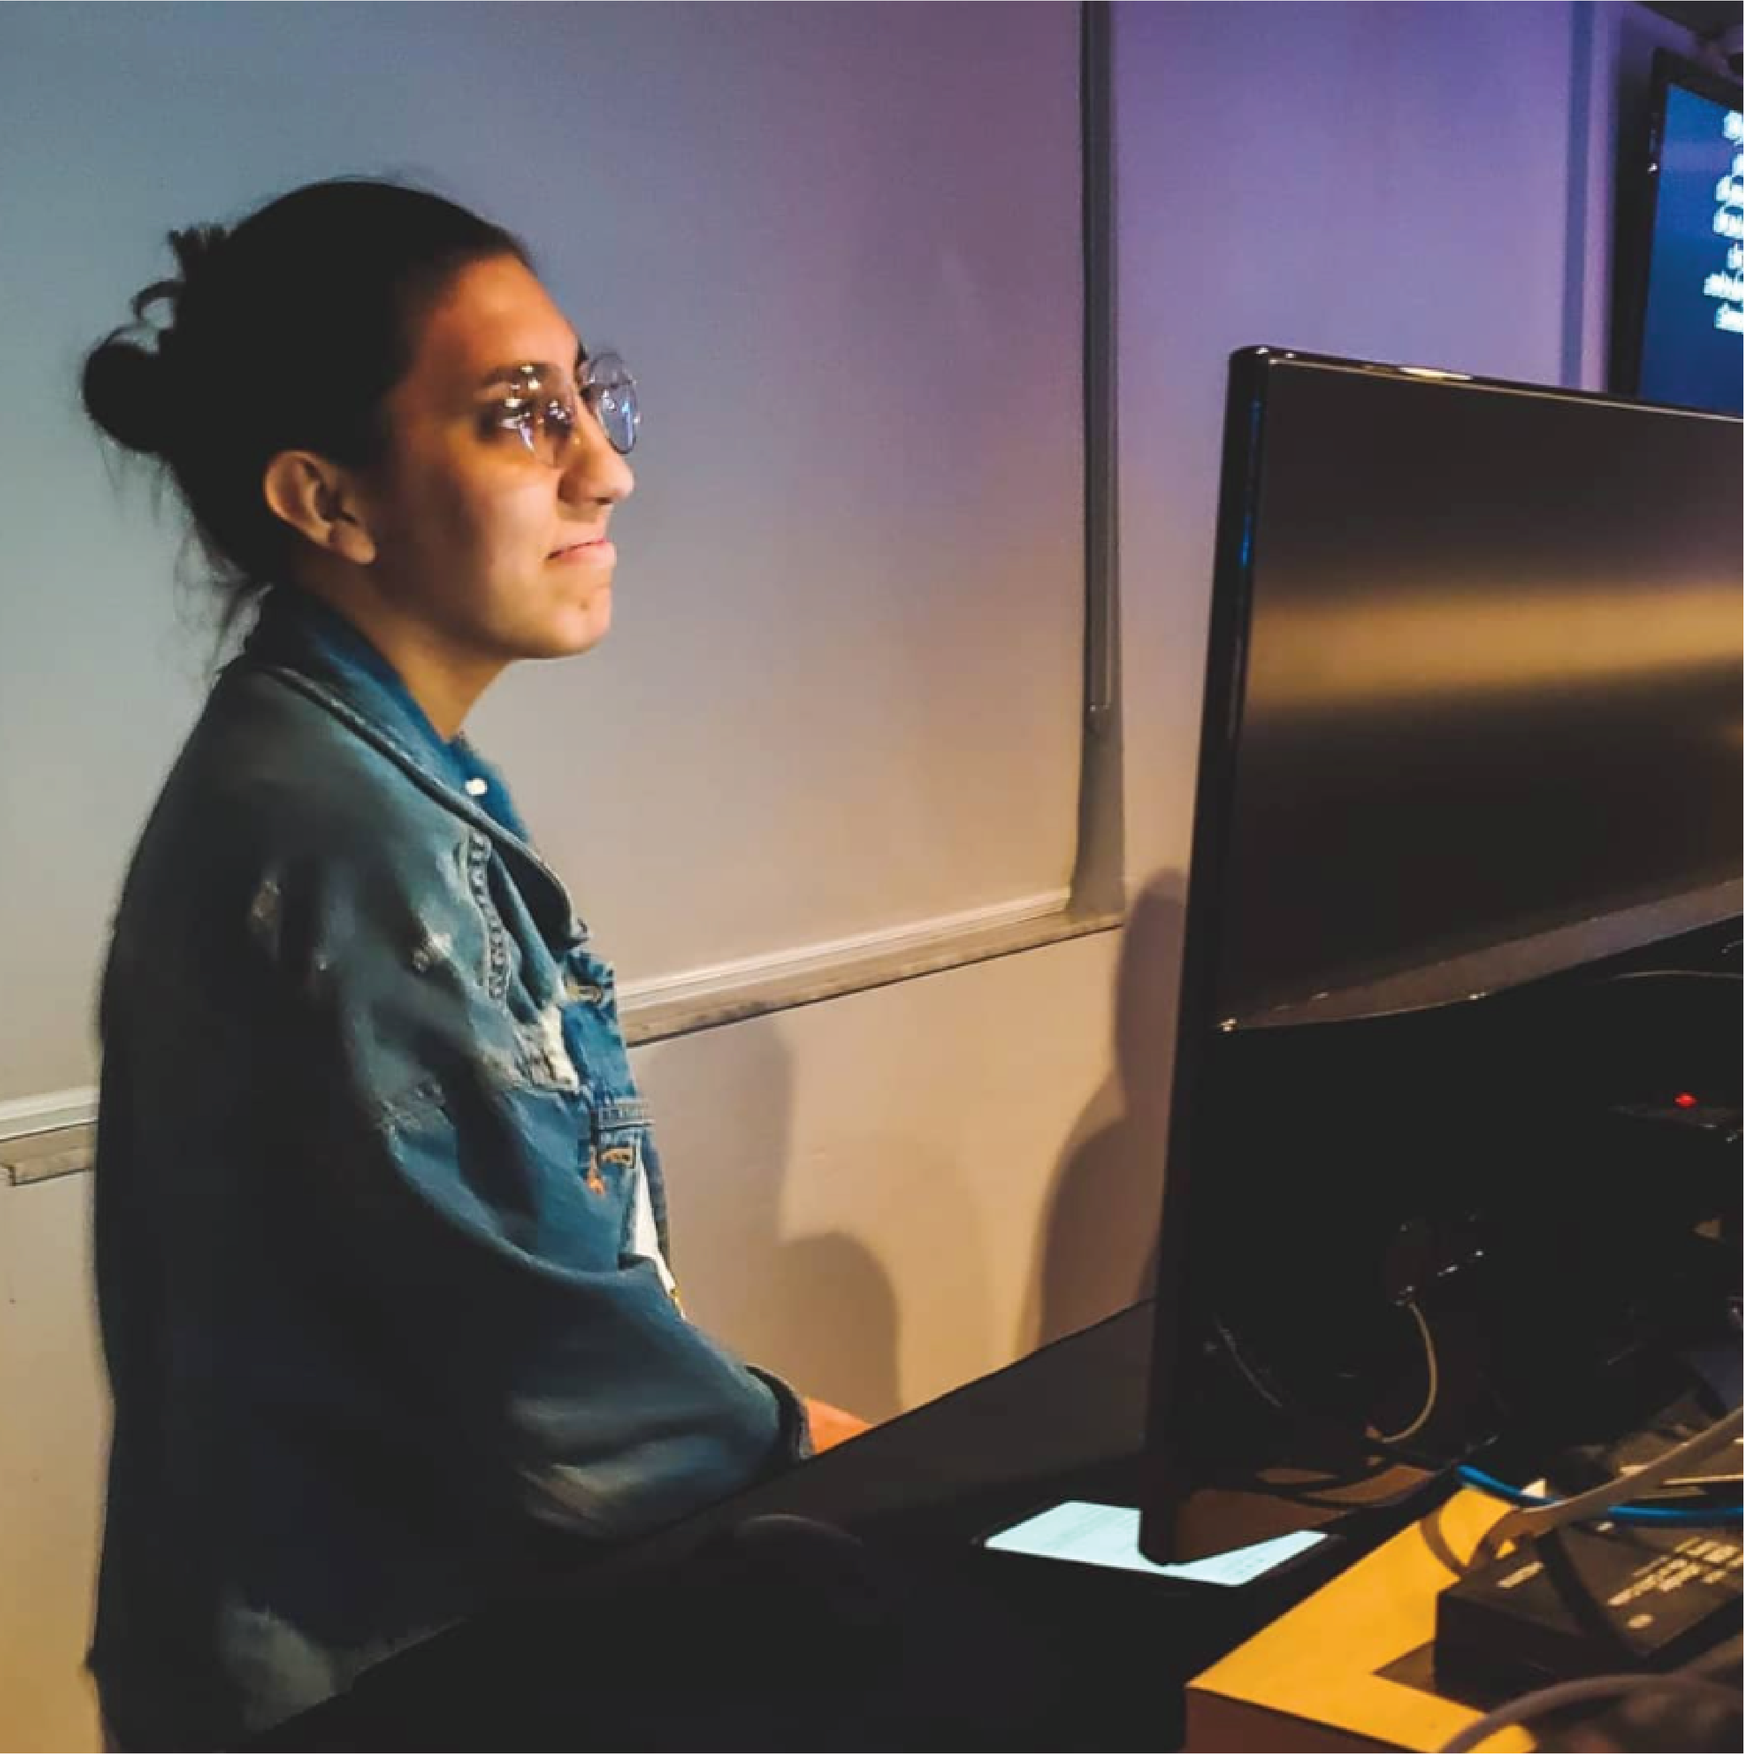
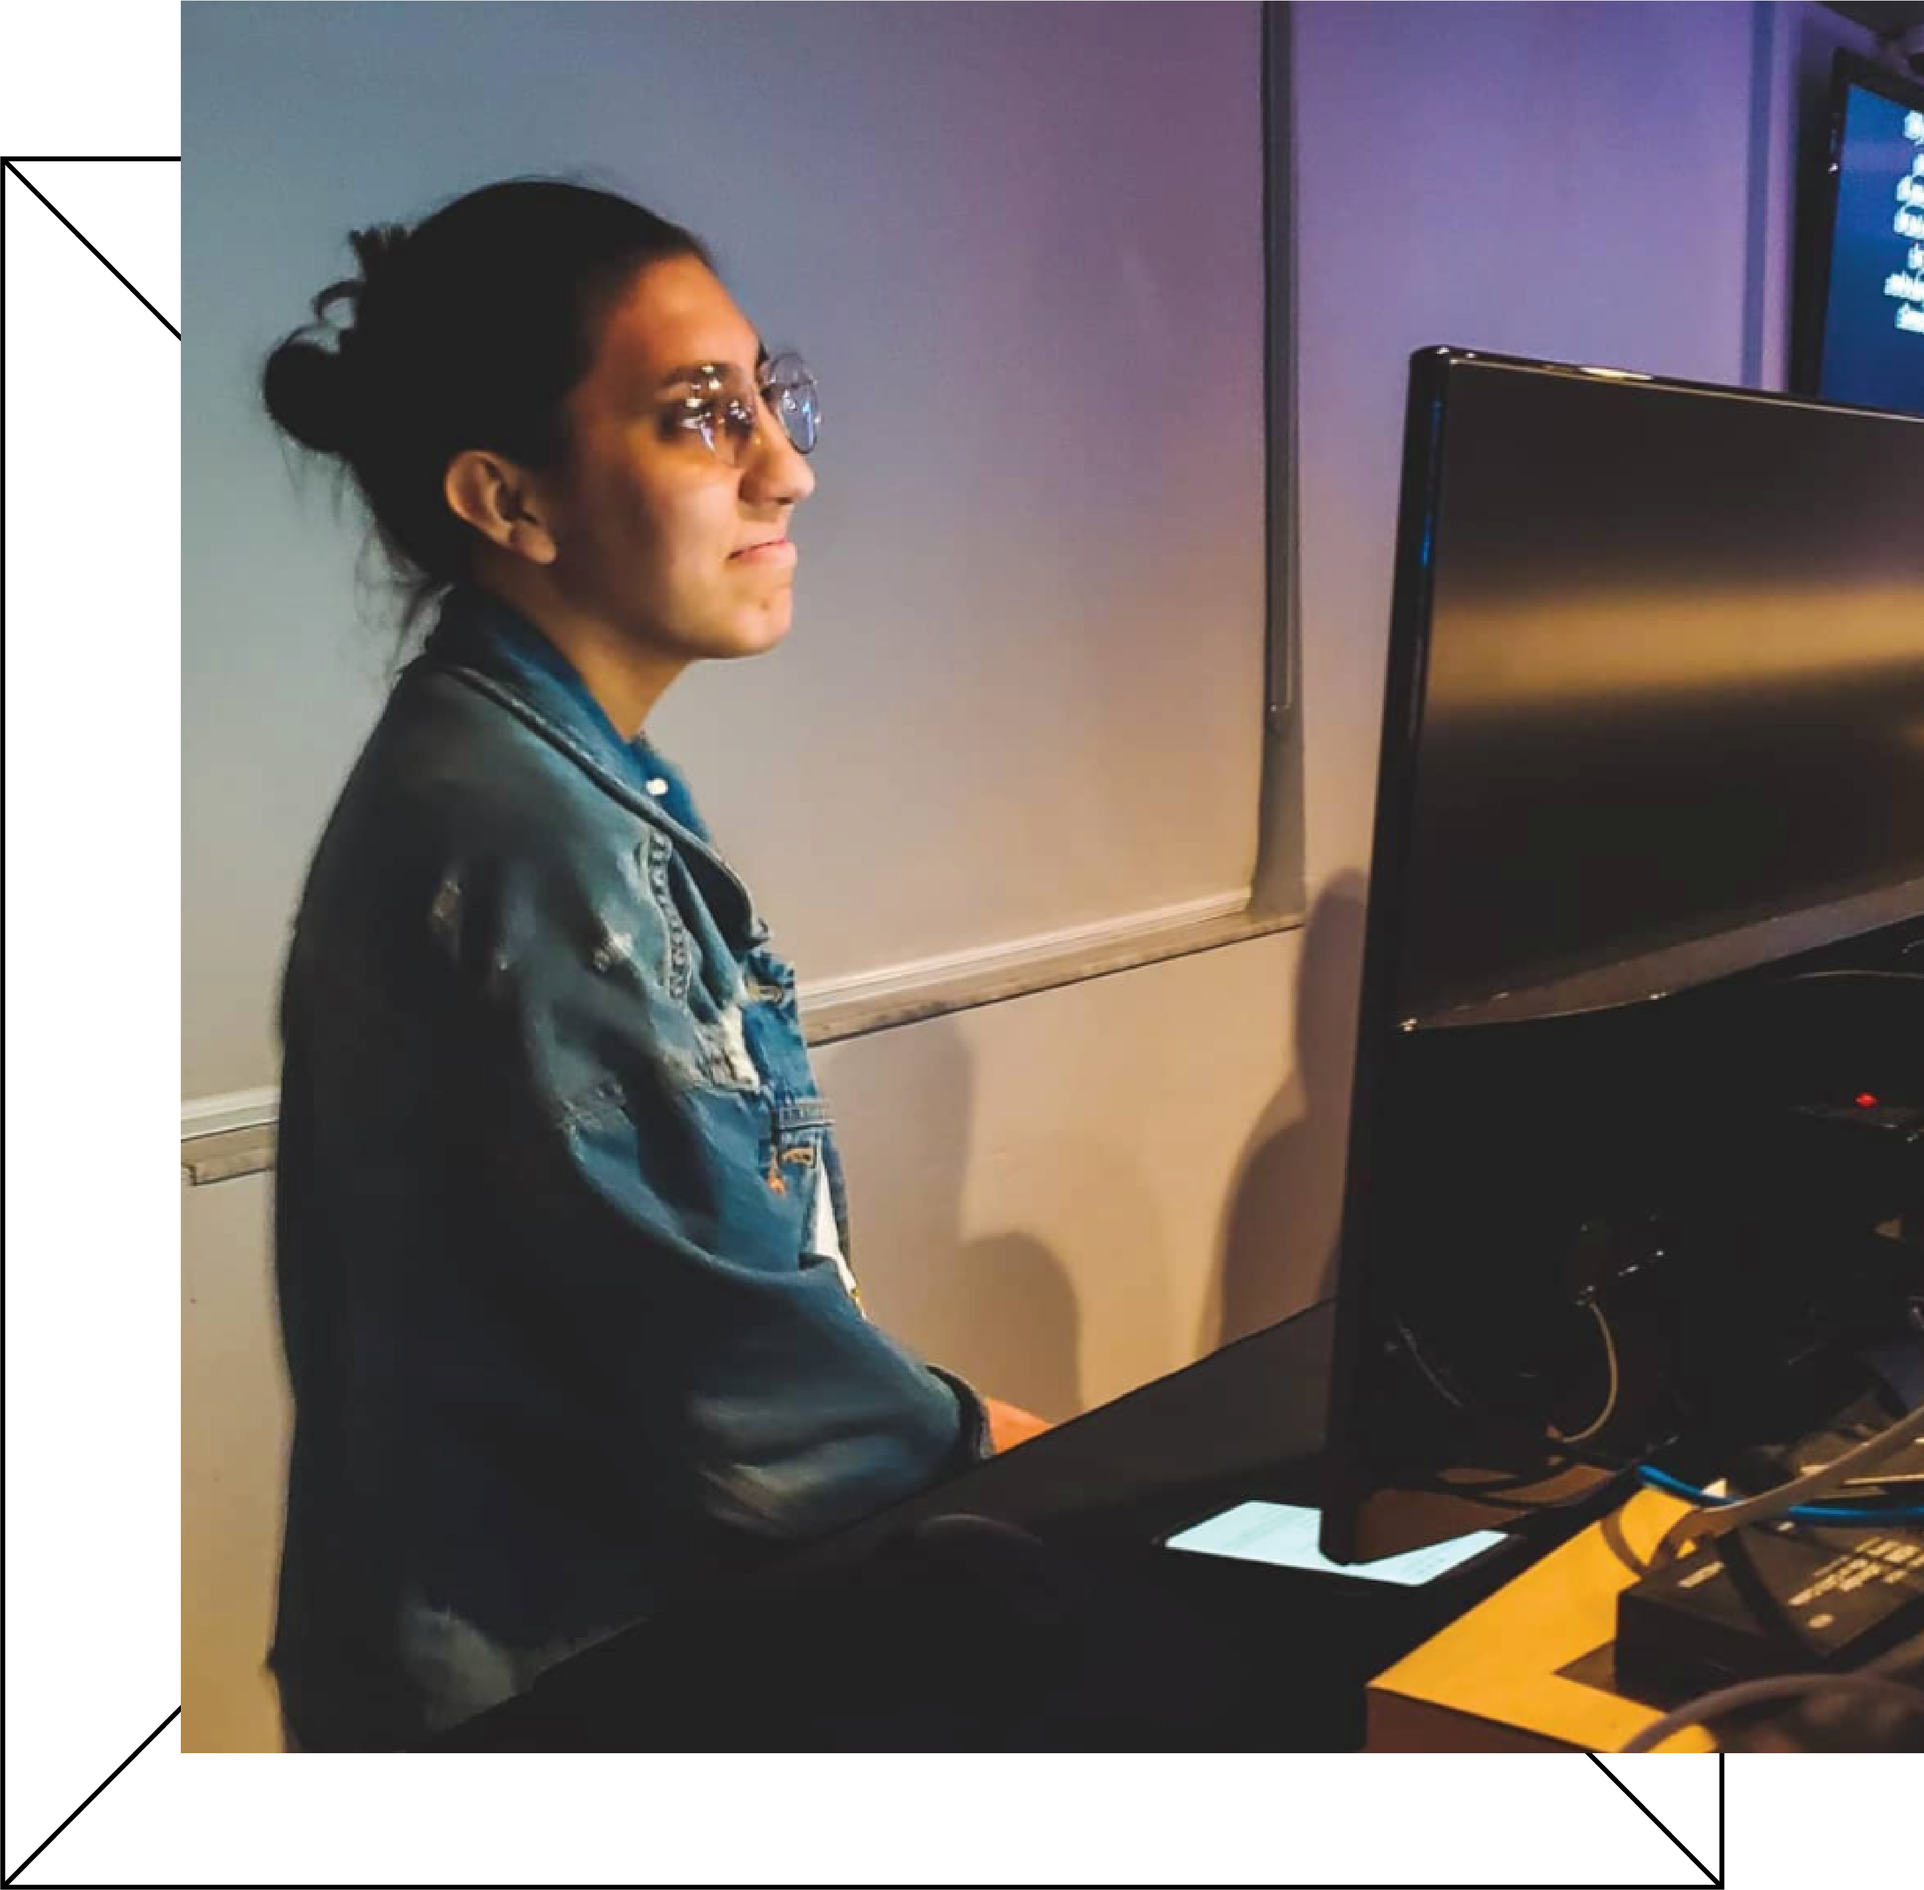
Added new profile image, Added links to websites in home page

diff --git a/index.html b/index.html
@@ -76,14 +76,12 @@
 
                 <figure>
                     <!-- <img src="images/webhover_placeholder_short.png" alt="work_one" title="workcase_one"/> -->
-                    <img src="images/workone.png" alt="works" title="Ornimental"/>
+                    <a href="ornimental.com"><img src="images/workone.png" alt="works" title="Ornimental"/></a>
 
                     <div>
-                        <!-- <img src="images/webhover_placeholder_short.png" alt="work_two" title="workcase_two"/> -->
-                        <img src="images/worktwo.png" alt="works" title="Rudy Garcia Books"/>
-
-                        <!-- <img src="images/webhover_placeholder_short.png" alt="work_three" title="workcase_three"/> -->
-                        <img src="images/workthree.png" alt="works" title="Cafe Con Dan"/>
+                        <a href="rudygarciabooks.com"><img src="images/worktwo.png" alt="works" title="Rudy Garcia Books"/></a>
+                        
+                        <a href="https://ruizjosselynjr.wixsite.com/portfolio/cafe-con-dan"><img src="images/workthree.png" alt="works" title="Cafe Con Dan"/></a>
                     </div>
                 </figure>
             </div>

diff --git a/css/styles.css b/css/styles.css
@@ -106,9 +106,9 @@ button:hover{
 
 /*****************************************Work Case Image Styles Start*****************************************/
 
-figure img:hover, figure div img:hover {
+/* figure img:hover, figure div img:hover {
     transition: 1s ease;
-}
+} */
 
 figure img:hover, figure div img:hover {
     -webkit-transform: scale(0.9);
@@ -308,7 +308,7 @@ footer {
         width: 100%;
     }
 
-    figure div img {
+    figure div a {
         max-width: 48%;
     }
 
@@ -320,12 +320,13 @@ footer {
     }
 
     .profile_img {
-        width: 30%;
+        width: 40%;
+        padding-top: 0;
     }
 
     .about_articles {
-        width: 60%;
-        padding-left: 5%;
+        width: 55%;
+        padding: 5%;
     }
 
 
